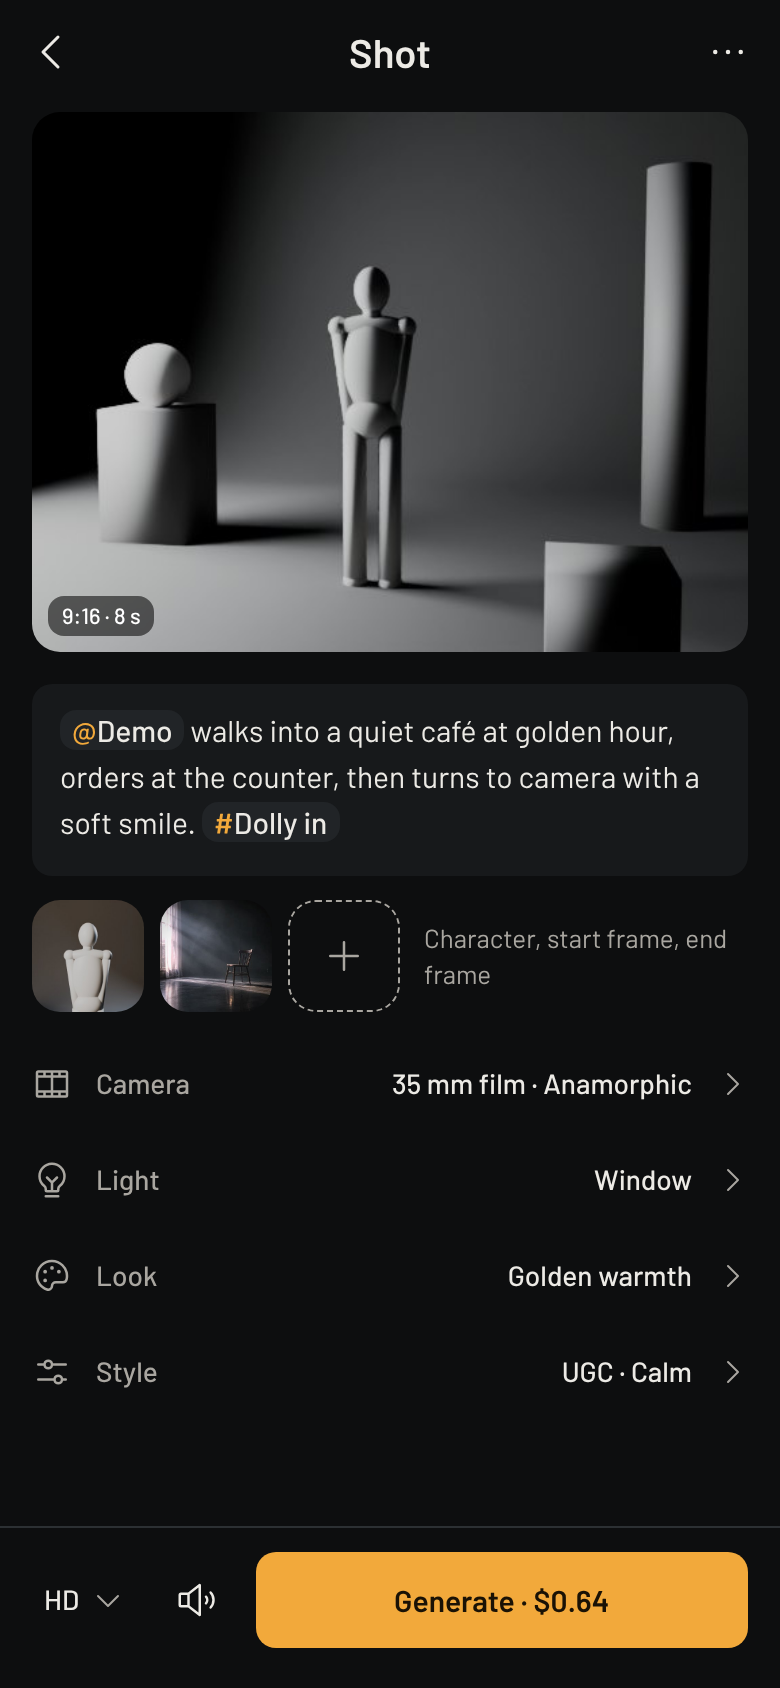
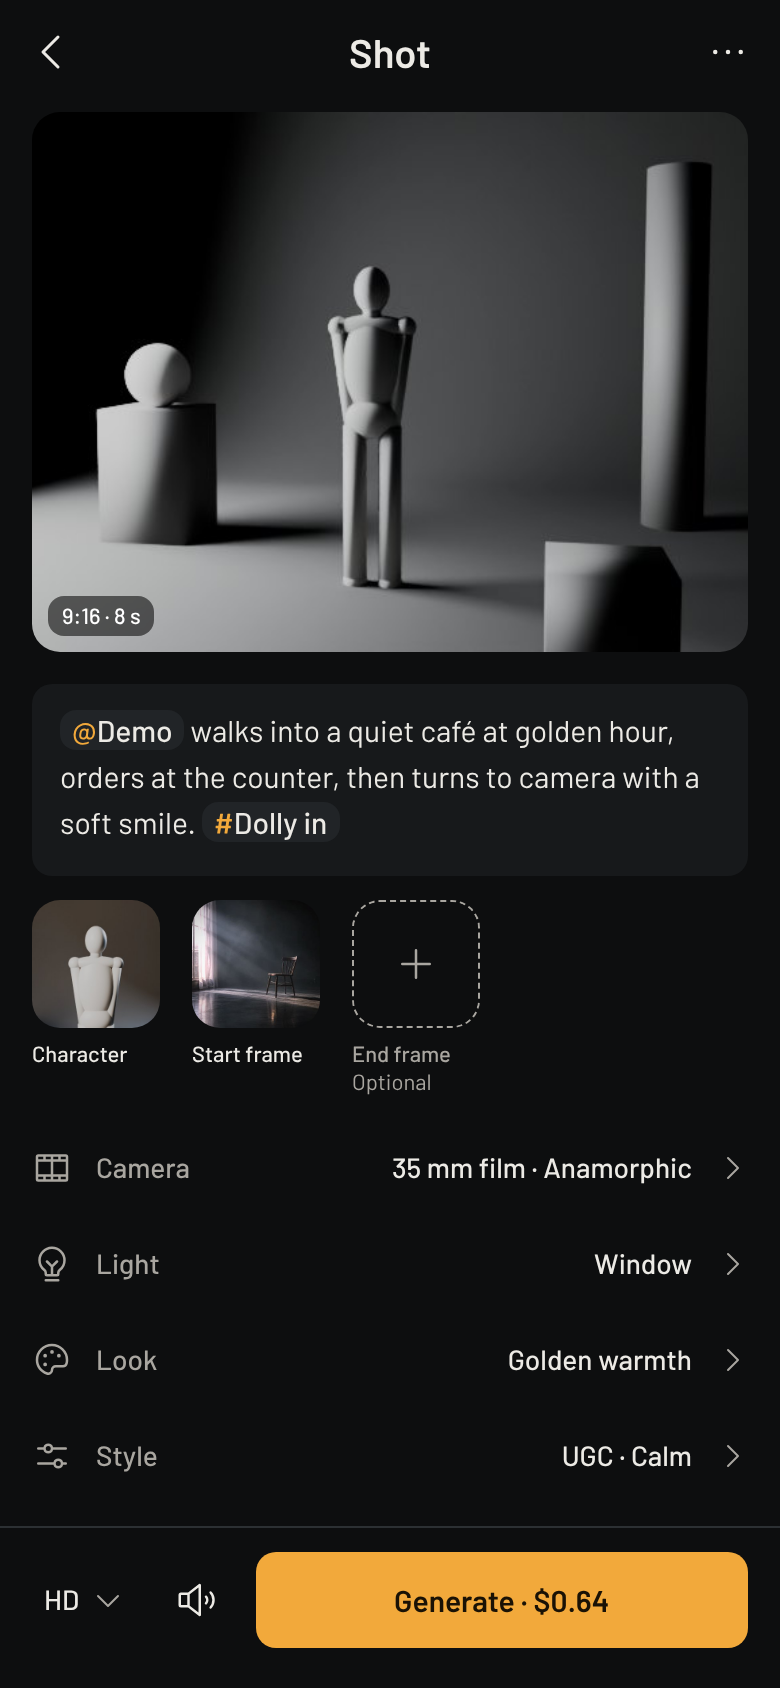
Design direction: owner's four fixes (Mac composer fills the height, 1000 px pill rule; drums loop and Auto has a visual, see-what-you-get captions; middle dots only in value pairs; labelled input slots) and Photo in the Mac sidebar; renders updated
Claude-Session: https://claude.ai/code/session_01Py2rxnSji59d98ivK5LDYD

diff --git a/design/direction/render.py b/design/direction/render.py
@@ -67,7 +67,7 @@ def home(t):
 <div style="padding:16px 16px 0"><div class="display">Models</div></div>
 <div style="padding:16px 16px 0">
   <div class="media" style="height:300px"><img src="{img(PV/'angles/ms.jpg')}"></div>
-  <div class="row" style="margin-top:12px"><div class="grow"><div class="heading">Demo model</div><div class="caption">2 outfits · identity locked</div></div>
+  <div class="row" style="margin-top:12px"><div class="grow"><div class="heading">Demo model</div><div class="caption">2 outfits, identity locked</div></div>
     <div class="textbtn">{icon('caret-right',20)}</div></div>
   <div class="row gap2" style="margin-top:12px"><div class="action grow">{icon('video-camera',20,'var(--onaction)')}New shot</div>
     <div class="action" style="background:var(--field);color:var(--ink);width:52px">{icon('camera',20)}</div></div>
@@ -91,6 +91,18 @@ def chip(txt, sig):
 SETTINGS = [("film-strip", "Camera", "35 mm film · Anamorphic"), ("lightbulb-filament", "Light", "Window"), ("palette", "Look", "Golden warmth"),
             ("sliders-horizontal", "Style", "UGC · Calm")]
 
+# Each input slot carries its own name under the thumbnail; the empty slot says what it adds (owner fix 4).
+SLOTS = [("Character", "angles/mcu.jpg", ""), ("Start frame", "genres/romance.jpg", ""), ("End frame", None, "Optional")]
+
+def slots(sz):
+    cells = []
+    for name, src, note in SLOTS:
+        box = (f'<div class="media" style="width:{sz}px;height:{sz}px"><img src="{img(PV/src)}"></div>' if src else
+               f'<div style="width:{sz}px;height:{sz}px;border-radius:var(--rc);border:1.5px dashed var(--ink2);display:grid;place-items:center;color:var(--ink2)">{icon("plus",20)}</div>')
+        cells.append(f'<div style="width:{sz + 8}px">{box}<div class="micro" style="margin-top:6px;color:{"var(--ink)" if src else "var(--ink2)"}">{name}</div>'
+                     f'<div class="micro" style="color:var(--ink2);font-weight:400;height:14px">{note}</div></div>')
+    return f'<div class="row gap2" style="align-items:flex-start">{"".join(cells)}</div>'
+
 def composer(t):
     rows = "".join(f'<div class="row gap3" style="height:48px">{icon(i,20,"var(--ink2)")}<div class="label grow" style="color:var(--ink2)">{l}</div>'
                    f'<div class="label">{v}</div>{icon("caret-right",16,"var(--ink2)")}</div>' for i, l, v in SETTINGS)
@@ -100,11 +112,7 @@ def composer(t):
 <div style="padding:16px 16px 0">
   <div style="background:var(--raised);border-radius:var(--rk);padding:12px 14px;min-height:96px;font-size:15px;line-height:23px">
     {chip('Demo','@')} walks into a quiet café at golden hour, orders at the counter, then turns to camera with a soft smile. {chip('Dolly in','#')}</div>
-  <div class="row gap2" style="margin-top:12px">
-    <div class="media" style="width:56px;height:56px;flex:none"><img src="{img(PV/'angles/mcu.jpg')}"></div>
-    <div class="media" style="width:56px;height:56px;flex:none"><img src="{img(PV/'genres/romance.jpg')}"></div>
-    <div style="width:56px;height:56px;border-radius:var(--rc);border:1.5px dashed var(--ink2);display:grid;place-items:center;color:var(--ink2)">{icon('plus',20)}</div>
-    <div class="caption grow" style="padding-left:4px">Character, start frame, end frame</div></div>
+  <div style="margin-top:12px">{slots(64)}</div>
 </div>
 <div style="padding:12px 16px 0">{rows}</div>
 <div style="position:absolute;left:0;right:0;bottom:0;padding:12px 16px 20px;background:var(--canvas);border-top:1px solid var(--hair)" class="row gap2">
@@ -113,14 +121,20 @@ def composer(t):
   <div class="action grow">Generate · $0.64</div></div>"""
 
 # ---------------------------------------------------------------- Picker (phone sheet, Camera → Setup with the drum)
+def auto_tile():
+    # "Auto" is a real option with its own visual: the aperture mark on the field tone, same size as the hardware renders.
+    return (f'<div style="width:64px;height:64px;border-radius:50%;background:var(--field);display:grid;place-items:center">{icon("aperture",32,"var(--ink)")}</div>')
+
 def drum(items, sel, kind):
-    out = []
+    out, n = [], len(items)
     for k, (name, src) in enumerate(items):
         d = k - sel
+        if n >= 5 and abs(d) > n // 2: d -= n if d > 0 else -n   # 5+ options: the wheel loops
         if abs(d) > 2: continue
         sc, op = (1, 1) if d == 0 else ((.86, .55) if abs(d) == 1 else (.72, .22))
         y = 160 + d * 74
-        el = f'<img src="{img(HW/(src+".webp"))}" style="width:72px;height:72px;object-fit:contain">' if kind == "hw" else \
+        el = f'<div style="width:72px;height:72px;display:grid;place-items:center">{auto_tile()}</div>' if src == "auto" else \
+             f'<img src="{img(HW/(src+".webp"))}" style="width:72px;height:72px;object-fit:contain">' if kind == "hw" else \
              f'<div style="width:72px;height:72px;display:grid;place-items:center;font:600 18px/1 var(--tf);color:var(--ink)">{src}</div>'
         out.append(f'<div style="position:absolute;left:0;right:0;top:{y - 36}px;display:grid;place-items:center;transform:scale({sc}) perspective(300px) rotateX({-d*18}deg);opacity:{op}">{el}</div>')
     return "".join(out)
@@ -129,15 +143,15 @@ def drum(items, sel, kind):
 BAG = dict(raised="#141414", field="#1E1F21", ink="#ECEAE5", ink2="#A9A6A0", hair="#2C3033")
 
 def picker(t):
-    cols = [("Camera", [("35 mm film", "body-05-film35"), ("Cinema camera", "body-02-super35"), ("16 mm film", "body-06-film16"), ("Super 8", "body-10-super8"), ("Phone", "body-08-phone")], 0, "hw", "35mm 4-perf · Vision3 500T look"),
-            ("Lens", [("Anamorphic", "lens-02-anamorphic"), ("Warm vintage", "lens-04-warm-vintage"), ("Clean sharp", "lens-01-clean-prime"), ("Vintage anamorphic", "lens-03-vintage-anamorphic")], 1, "hw", "Speed Panchro look · warm"),
-            ("Focal", [("24 mm", "24"), ("35 mm", "35"), ("50 mm", "50"), ("85 mm", "85"), ("135 mm", "135")], 2, "txt", "Natural · like the eye"),
+    cols = [("Camera", [("Auto", "auto"), ("35 mm film", "body-05-film35"), ("Cinema camera", "body-02-super35"), ("16 mm film", "body-06-film16"), ("Super 8", "body-10-super8"), ("Phone", "body-08-phone")], 1, "hw", "Fine grain, warm halation"),
+            ("Lens", [("Auto", "auto"), ("Anamorphic", "lens-02-anamorphic"), ("Warm vintage", "lens-04-warm-vintage"), ("Clean sharp", "lens-01-clean-prime"), ("Vintage anamorphic", "lens-03-vintage-anamorphic")], 1, "hw", "Oval bokeh, flares"),
+            ("Focal", [("24 mm", "24"), ("35 mm", "35"), ("50 mm", "50"), ("85 mm", "85"), ("135 mm", "135")], 2, "txt", "Natural, like the eye"),
             ("Aperture", [("f/1.4", "1.4"), ("f/2.8", "2.8"), ("f/5.6", "5.6"), ("f/11", "11")], 1, "txt", "Soft background")]
     seg = "".join(f'<div class="label grow" style="text-align:center;height:36px;line-height:36px;border-radius:calc(var(--rk) - 2px);{"background:var(--raised);color:var(--ink)" if i == 0 else "color:var(--ink2)"}">{s}</div>'
                   for i, s in enumerate(["Setup", "Angle", "Movement", "Directed"]))
     drums = "".join(f'<div class="grow" style="display:flex;flex-direction:column;align-items:center">'
                     f'<div class="caption" style="height:22px;margin-bottom:6px">{c}</div><div style="position:relative;width:100%;height:320px;overflow:hidden">{drum(items, sel, kind)}</div>'
-                    f'<div class="label" style="text-align:center;margin-top:6px">{items[sel][0]}</div><div class="caption" style="text-align:center;font-size:12px;line-height:16px;padding:0 2px">{cap}</div></div>'
+                    f'<div class="label" style="text-align:center;margin-top:6px">{items[sel][0]}</div><div class="caption" style="text-align:center;font-size:12px;line-height:16px;padding:0 2px;display:-webkit-box;-webkit-line-clamp:2;-webkit-box-orient:vertical;overflow:hidden">{cap}</div></div>'
                     for c, items, sel, kind, cap in cols)
     return f"""
 <div style="position:absolute;inset:0;background:var(--canvas)"><div style="padding:8px 16px;opacity:.35"><div class="media" style="height:220px;margin-top:52px"><img src="{img(PV/'lighting/window.jpg')}"></div></div></div>
@@ -153,36 +167,42 @@ def picker(t):
   <div style="position:absolute;left:16px;right:16px;bottom:24px;{'background:#F8F5EF;color:#141210' if t['action'] == '#141210' else ''}" class="action">Done</div>
 </div>"""
 
-# ---------------------------------------------------------------- Composer (Mac 1280)
-def composer_mac(t):
-    nav = [("house", "Home", False), ("user", "Models", False), ("video-camera", "Shot", True), ("users-three", "Character swap", False), ("film-strip", "Storyboard", False),
-           ("squares-four", "Library", False), ("stack", "Queue", False)]
+# ---------------------------------------------------------------- Composer (Mac 1280 and 1000)
+# Owner fix 1: the preview fills the height between the title and the prompt bar, the bar sits right under it, no dead bands.
+# At narrow widths the bar's controls drop to icon plus value; the price on Generate is always visible.
+def composer_mac(t, w=1280):
+    narrow = w < 1100
+    nav = [("house", "Home", False), ("user", "Models", False), ("video-camera", "Shot", True), ("camera", "Photo", False), ("users-three", "Character swap", False),
+           ("film-strip", "Storyboard", False), ("squares-four", "Library", False), ("stack", "Queue", False)]
     side = "".join(f'<div class="row gap3" style="height:36px;padding:0 12px;border-radius:var(--rk);{"background:var(--field);color:var(--ink)" if on else "color:var(--ink2)"}">{icon(i,20)}<div class="label">{l}</div></div>' for i, l, on in nav)
-    rows = "".join(f'<div class="row gap3" style="height:44px">{icon(i,20,"var(--ink2)")}<div class="label grow" style="color:var(--ink2)">{l}</div><div class="label">{v}</div></div>' for i, l, v in SETTINGS)
+    rows = "".join(f'<div class="row gap3" style="height:44px">{icon(i,20,"var(--ink2)")}<div class="label grow" style="color:var(--ink2)">{l}</div><div class="label" style="white-space:nowrap">{v}</div></div>' for i, l, v in SETTINGS)
+    rail, sidew = (264, 200) if narrow else (300, 220)
+    tip = lambda txt: f' title="{txt}" aria-label="{txt}"'
+    bar = (f'<div class="textbtn">HD {icon("caret-down",16,"var(--ink2)")}</div><div class="iconbtn"{tip("Sound on")}>{icon("speaker-high",20)}</div>'
+           f'<div class="iconbtn" style="color:var(--ink2)"{tip("Not speaking")}>{icon("microphone-slash",20)}</div>') if narrow else \
+          (f'<div class="textbtn">HD {icon("caret-down",16,"var(--ink2)")}</div><div class="textbtn" style="color:var(--ink2)">{icon("speaker-high",18)} Sound</div>'
+           f'<div class="textbtn" style="color:var(--ink2)">{icon("microphone-slash",18)} Not speaking</div>')
     return f"""
 <div class="row" style="height:100%;align-items:stretch">
- <div style="width:220px;padding:16px 12px;border-right:1px solid var(--hair)"><div class="label" style="font-family:'{t['display']}';font-size:18px;padding:4px 12px 16px">MUSE</div>{side}
+ <div style="width:{sidew}px;flex:none;padding:16px 12px;border-right:1px solid var(--hair);position:relative"><div class="label" style="font-family:'{t['display']}';font-size:18px;padding:4px 12px 16px">MUSE</div>{side}
    <div class="caption" style="position:absolute;bottom:20px;left:24px">$4.17 left</div></div>
- <div class="grow" style="padding:24px 32px;display:flex;flex-direction:column;gap:16px">
-   <div class="row"><div class="title grow">Shot</div><div class="textbtn" style="color:var(--ink2)">Presets</div></div>
-   <div class="row gap4" style="flex:1;min-height:0">
-     <div class="media" style="flex:1"><img src="{img(PV/'lighting/window.jpg')}"><div class="scrimtag">9:16 · 8 s</div></div>
-     <div style="width:300px">
+ <div class="grow" style="padding:16px 24px 20px;display:flex;flex-direction:column;gap:12px">
+   <div class="row" style="height:32px"><div class="title grow">Shot</div><div class="textbtn" style="color:var(--ink2);height:32px">Presets</div></div>
+   <div class="row gap4" style="flex:1;min-height:0;align-items:stretch">
+     <div class="media" style="flex:1"><img src="{img(PV/'lighting/window.jpg')}"><div class="scrimtag">16:9 · 8 s</div></div>
+     <div style="width:{rail}px;flex:none">
        <div class="heading" style="margin-bottom:4px">Setup</div>{rows}
-       <div class="heading" style="margin:20px 0 8px">Inputs</div>
-       <div class="row gap2"><div class="media" style="width:64px;height:64px"><img src="{img(PV/'angles/mcu.jpg')}"></div><div class="media" style="width:64px;height:64px"><img src="{img(PV/'genres/romance.jpg')}"></div>
-         <div style="width:64px;height:64px;border-radius:var(--rc);border:1.5px dashed var(--ink2);display:grid;place-items:center;color:var(--ink2)">{icon('plus',20)}</div></div></div>
+       <div class="heading" style="margin:20px 0 8px">Inputs</div>{slots(72 if not narrow else 64)}</div>
    </div>
-   <div style="background:var(--raised);border-radius:var(--rk);padding:14px 16px">
+   <div style="background:var(--raised);border-radius:var(--rk);padding:12px 16px">
      <div style="font-size:15px;line-height:23px">{chip('Demo','@')} walks into a quiet café at golden hour, orders at the counter, then turns to camera with a soft smile. {chip('Dolly in','#')}</div>
-     <div class="row gap2" style="margin-top:12px"><div class="textbtn">HD {icon('caret-down',16,'var(--ink2)')}</div><div class="textbtn" style="color:var(--ink2)">{icon('speaker-high',18)} Sound</div>
-       <div class="textbtn" style="color:var(--ink2)">{icon('microphone',18)} Not speaking</div><div class="grow"></div><div class="action" style="padding:0 24px">Generate · $0.64</div></div></div>
+     <div class="row gap2" style="margin-top:8px">{bar}<div class="grow"></div><div class="action" style="padding:0 24px;white-space:nowrap">Generate · $0.64</div></div></div>
  </div></div>"""
 
 def main():
     OUT.mkdir(parents=True, exist_ok=True)
     jobs = [(f"home-{k}", home, k, 390, 844) for k in THEMES] + [(f"composer-{k}", composer, k, 390, 844) for k in THEMES] + \
-           [(f"picker-{k}", picker, k, 390, 844) for k in THEMES] + [("composer-mac-b", composer_mac, "b", 1280, 800)]
+           [(f"picker-{k}", picker, k, 390, 844) for k in THEMES] + [("composer-mac-b", composer_mac, "b", 1280, 800), ("composer-mac-1000-b", lambda t: composer_mac(t, 1000), "b", 1000, 720)]
     with tempfile.TemporaryDirectory() as tmp:
         spec = []
         for name, fn, k, w, h in jobs:

diff --git a/plans/design-direction.md b/plans/design-direction.md
@@ -129,7 +129,8 @@ Motion only **answers a user action or shows progress**.
   - Nothing is called "Submit" or "OK".
 - **Names:** one name per thing everywhere (Shot, Take, Character, Cast, Preset, Look). The action label and its confirmation match ("Publish" → "Published").
 - **Errors:** what happened, plus how to fix it. "Something went wrong" stays only as the last fallback, and always comes with "· you weren't charged" when that's true.
-- **Meta lines:** at most one middle-dot line per item (for example "8 s · 9:16 · HD"), never chains of four or more.
+- **Middle dots:** "·" only joins a value pair: "35 mm film · Anamorphic", "UGC · Calm", the media badge "9:16 · 8 s", and the price on the action ("Generate · $0.64"). Anywhere else, write a short phrase ("2 outfits, identity locked") or use two lines. (Owner, 2026-11-06.)
+- **Picker captions** say what you'll see, in 3–5 plain words ("Fine grain, warm halation", "Oval bokeh, flares", "Soft background"), never specs or brand names ("35mm 4-perf · Vision3 500T look", "Speed Panchro"). Two lines at most.
 - **Members:** never see model, provider or GPU names (owner views may).
 
 ## 8. Checked against the slop list (skill §1)
@@ -143,7 +144,7 @@ Motion only **answers a user action or shows progress**.
 | ALL-CAPS tracked section labels | "RECENT TAKES", "CAMERA", "LENS"… | sentence-case headings or nothing (§3) |
 | Monospace as decoration | mono caps on chips ("REFERENCES 0/6") | text face; tabular figures only for numbers |
 | Pills and badges on everything | check badges, counts "5 / 11" on every wheel, "Optional" tags | one selection mark; counts only where they inform |
-| Middle-dot chains | "Identity locked · 2 outfits · …" | at most one short meta line per item |
+| Middle-dot chains | "Identity locked · 2 outfits · …" | "·" only inside a value pair; otherwise a phrase or two lines (§7) |
 | More than 2 typefaces | three per theme (display, body, mono) | two (§3) |
 | Equal weight, no primary | several filled buttons and accents per screen | one `action` per screen; `accent` only marks selection (§2) |
 | Hover glows and fade-slide | glows on D's cards, staggered entrances | motion only on action or progress (§6) |
@@ -154,11 +155,22 @@ Kept on purpose, not by default: Instrument Serif titles in A (it's the theme's 
 ## 9. Redesigned key screens (for the owner's approval)
 `plans/design-direction/` holds three screens redesigned with these rules, in Camera Body (B, dark) and Editorial (A, light). Each is next to today's version.
 - **Home** (phone 390): `home-b.png`, `home-a.png`
-- **Composer** (phone 390, and Mac 1280): `composer-b.png`, `composer-a.png`, `composer-mac-b.png`
+- **Composer** (phone 390, and Mac 1280 and 1000): `composer-b.png`, `composer-a.png`, `composer-mac-b.png`, `composer-mac-1000-b.png`
 - **Picker** (Camera → Setup with the drum, phone 390): `picker-b.png`, `picker-a.png`. The camera bag is always dark (design/README decision 3), so in Editorial the sheet is dark too, with Editorial's type.
 - **Today, for comparison:** `today.png` (Android, from the current screenshot tests).
 - **Regenerate:** `python3 design/direction/render.py`, with `PHOSPHOR` pointing at an unpacked `@phosphor-icons/core` 2.1.1 (`npm pack @phosphor-icons/core`). The imagery is the Blender preview stills and the hardware renders, with no placeholders or people.
 
-The rollout starts after the owner approves.
+**Approved by the owner on 2026-11-06, with four fixes, now in the renders:**
+1. **Mac composer:** the preview fills the height between the title and the prompt bar, and the bar sits right under it, with no empty bands. At 1000 px the bar follows the pill rule: icon plus value, with labels moved into tooltips, and the price on Generate always visible (`composer-mac-1000-b.png`).
+2. **Drums never show an empty neighbour.**
+   - A drum with 5 or more options loops.
+   - Auto is a real option with its own visual: the aperture mark on a `field` disc, the same size as the hardware renders.
+   - Captions follow §7: what you'll see, in two lines at most.
+3. **Middle dots:** only inside value pairs (§7).
+4. **Composer input slots:** each thumbnail has its own label under it (Character, Start frame, End frame), with "Optional" where it applies. The empty "+" slot carries the name of what it adds. The vague hint line "Character, start frame, end frame" is gone.
+
+Also: Photoshoot is now the **Photo** tool (WS3). The Mac sidebar lists Photo with the other tools, with no separate Photoshoot entry.
+
+The rollout starts now.
 - **Part A (WS4):** AI Suite, pickers, Edit suite; the composer last, after WS1's bottom bar and WS3's Photo tool merge.
 - **Part B (WS2):** Home, Library, Cast and models, LoRA, Settings, onboarding, chat.
